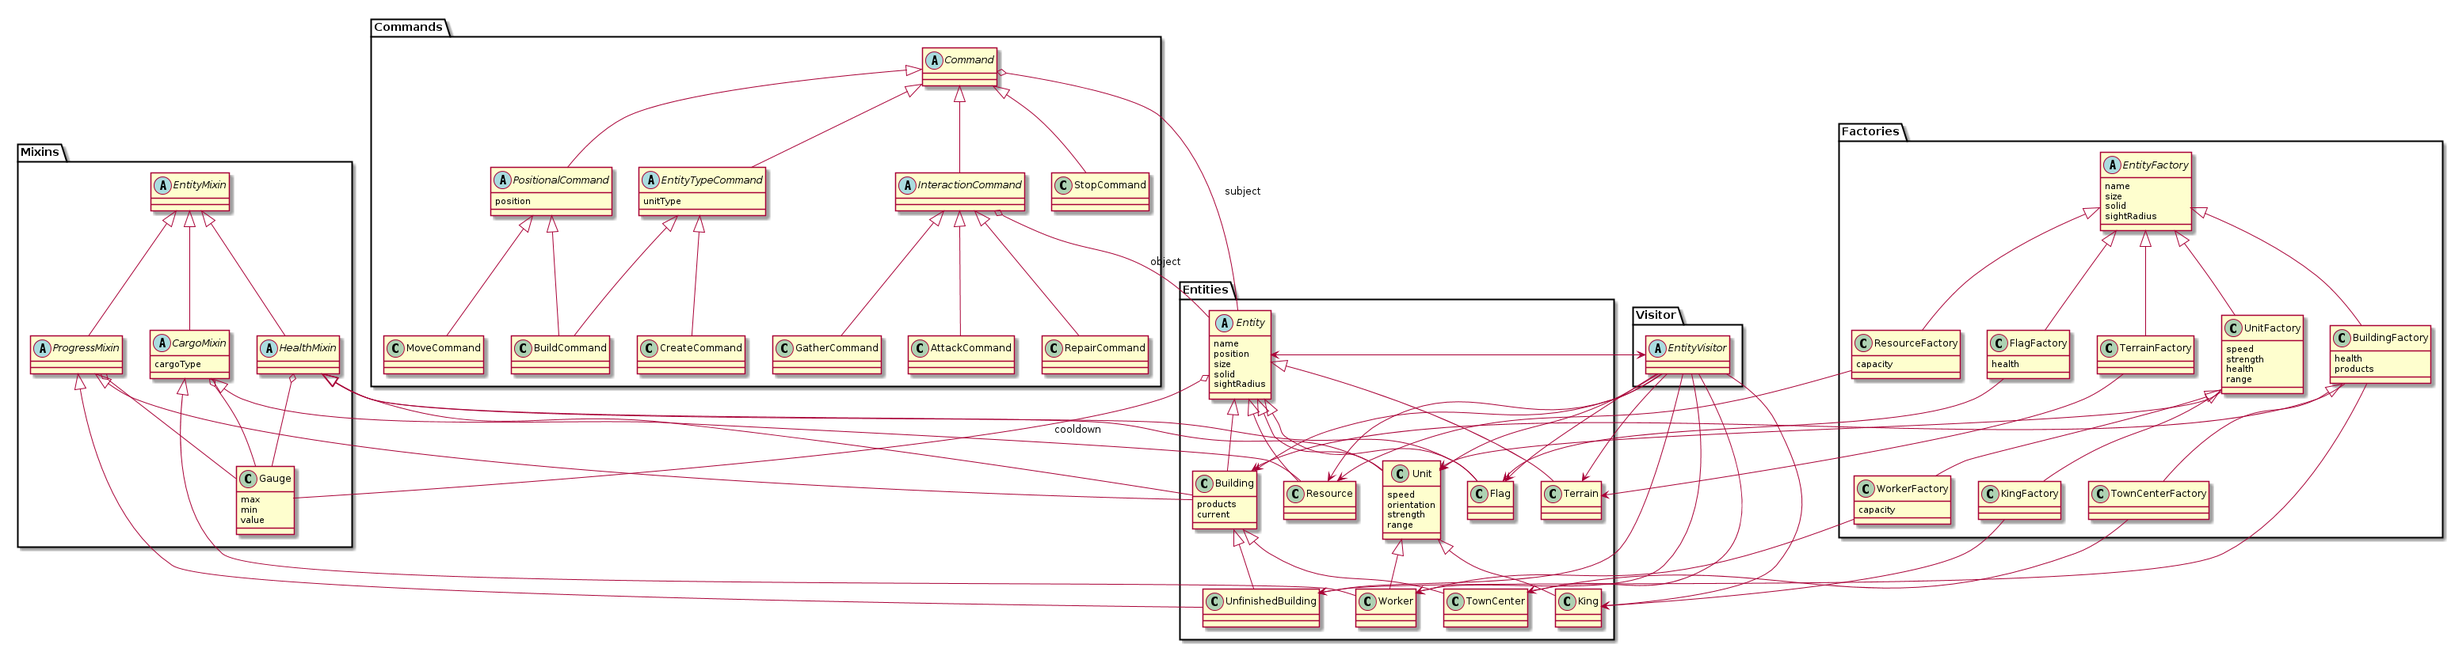
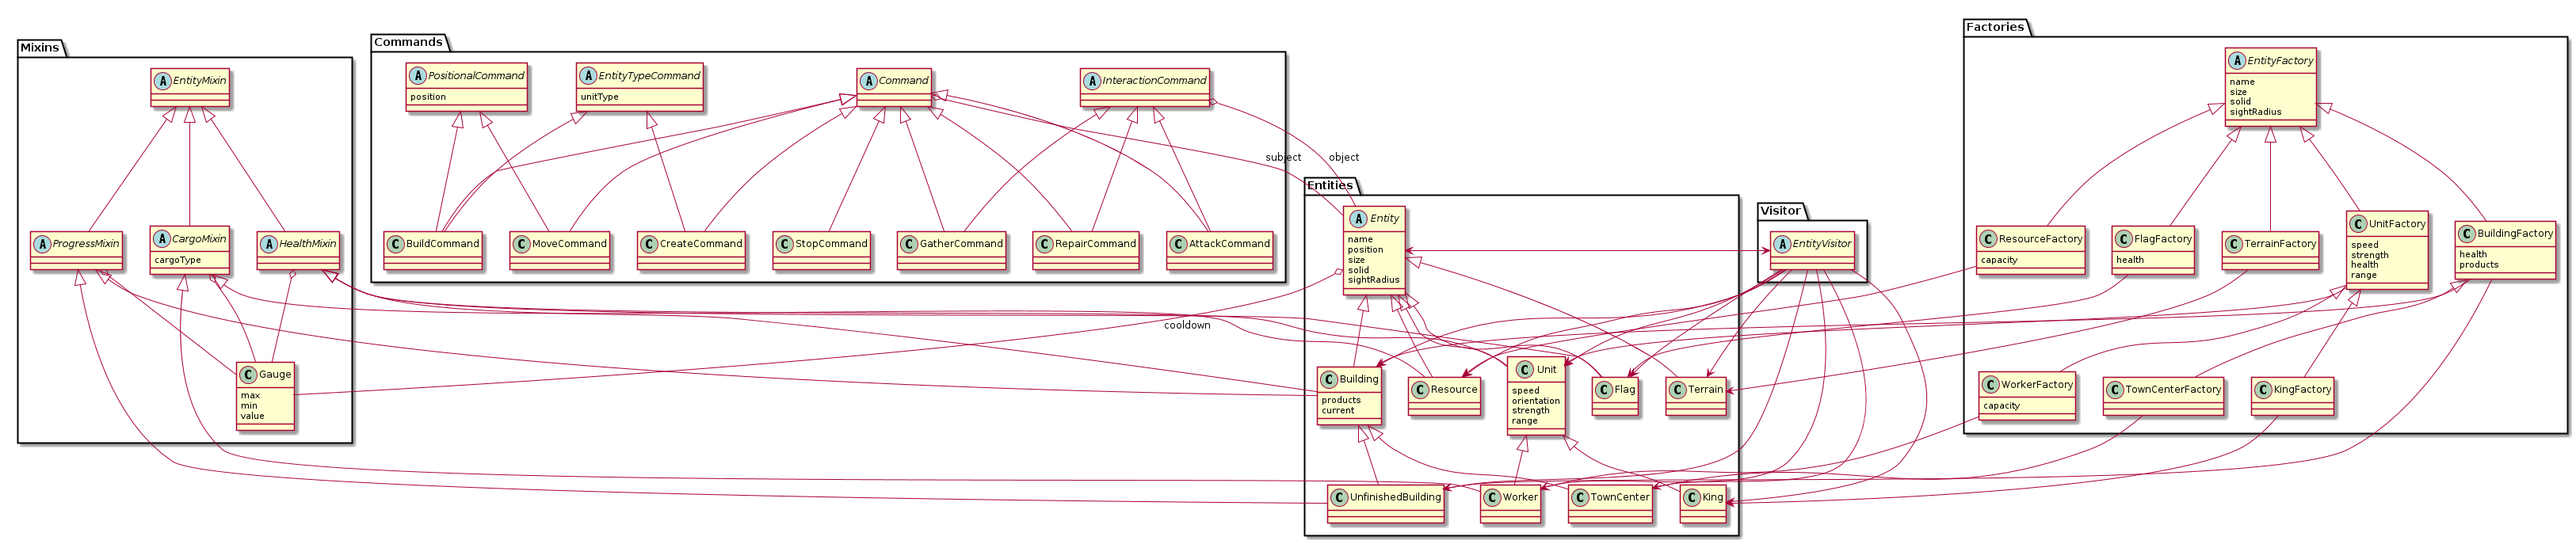
Muchas cosas

Changed region(s): [[0.0, 0.0306, 1.0, 1.0]]

diff --git a/src/main/model/command.h b/src/main/model/command.h
@@ -21,35 +21,35 @@ class StopCommand : public Command {
 		void execute(ABoard& board);
 };
 
-class PositionalCommand : public Command {
+class PositionalCommand {
 	public:
-		PositionalCommand(std::size_t entityId, r2 position);
+		PositionalCommand(r2 position);
 		const r2 position;
 		virtual ~PositionalCommand();
 };
 
-class MoveCommand : public PositionalCommand {
+class MoveCommand : public Command, public PositionalCommand {
 	public:
 		MoveCommand(std::size_t entityId, r2 position);
 	// Visitor methods for dispatching execute(board, command)
 		void execute(ABoard& board);
 };
 
-class InteractionCommand : public Command {
+class InteractionCommand {
 	public:
 		const std::size_t targetId;
-		InteractionCommand(std::size_t entityId, std::size_t targetId);
+		InteractionCommand(std::size_t targetId);
 		virtual ~InteractionCommand();
 };
 
-class RepairCommand : public InteractionCommand {
+class RepairCommand : public Command, public InteractionCommand {
 	public:
 		RepairCommand(std::size_t entityId, std::size_t targetId);
 	// Visitor methods for dispatching execute(board, command)
 		void execute(ABoard& board);
 };
 
-class AttackCommand : public InteractionCommand {
+class AttackCommand : public Command, public InteractionCommand {
 	public:
 		AttackCommand(std::size_t entityId, std::size_t targetId);
 	// TODO: Dispatching react()
@@ -57,28 +57,28 @@ class AttackCommand : public InteractionCommand {
 		void execute(ABoard& board);
 };
 
-class GatherCommand : public InteractionCommand {
+class GatherCommand : public Command, public InteractionCommand {
 	public:
 		GatherCommand(std::size_t entityId, std::size_t targetId);
 	// Visitor methods for dispatching execute(board, command)
 		void execute(ABoard& board);
 };
 
-class EntityTypeCommand : public Command {
+class EntityTypeCommand {
 	public:
 		const std::string entityType;
-		EntityTypeCommand(std::size_t entityId, std::string entityType);
+		EntityTypeCommand(std::string entityType);
 		virtual ~EntityTypeCommand();
 };
 
-class BuildCommand : public PositionalCommand, public EntityTypeCommand {
+class BuildCommand : public Command, public PositionalCommand, public EntityTypeCommand {
 	public:
 		BuildCommand(std::size_t entityId, r2 position, std::string entityType);
 	// Visitor methods for dispatching execute(board, command)
 		void execute(ABoard& board);
 };
 
-class CreateCommand : public EntityTypeCommand {
+class CreateCommand : public Command, public EntityTypeCommand {
 	public:
 		CreateCommand(std::size_t entityId, std::string entityType);
 	// Visitor methods for dispatching execute(board, command)

diff --git a/src/main/model/command.cpp b/src/main/model/command.cpp
@@ -12,8 +12,7 @@ void StopCommand::execute(ABoard& board) {
 }
 
 
-PositionalCommand::PositionalCommand(std::size_t entityId, r2 position) :
-	Command(entityId),
+PositionalCommand::PositionalCommand(r2 position) :
 	position(position)
 {}
 
@@ -21,7 +20,8 @@ PositionalCommand::~PositionalCommand() {}
 
 
 MoveCommand::MoveCommand(size_t entityId, r2 position) :
-	PositionalCommand(entityId, position)
+	Command(entityId),
+	PositionalCommand(position)
 {}
 
 void MoveCommand::execute(ABoard& board) {
@@ -29,8 +29,7 @@ void MoveCommand::execute(ABoard& board) {
 }
 
 
-InteractionCommand::InteractionCommand(size_t entityId, size_t targetId) :
-	Command(entityId),
+InteractionCommand::InteractionCommand(size_t targetId) :
 	targetId(targetId)
 {}
 
@@ -38,34 +37,36 @@ InteractionCommand::~InteractionCommand() {}
 
 
 RepairCommand::RepairCommand(size_t entityId, size_t targetId) :
-	InteractionCommand(entityId, targetId)
+	Command(entityId),
+	InteractionCommand(targetId)
 {}
 
 void RepairCommand::execute(ABoard& board) {
-//	board.execute(*this); // TODO
+	board.execute(*this); // TODO
 }
 
 
 GatherCommand::GatherCommand(size_t entityId, size_t targetId) :
-	InteractionCommand(entityId, targetId)
+	Command(entityId),
+	InteractionCommand(targetId)
 {}
 
 void GatherCommand::execute(ABoard& board) {
-//	board.execute(*this); // TODO
+	board.execute(*this); // TODO
 }
 
 
 AttackCommand::AttackCommand(size_t entityId, size_t targetId) :
-	InteractionCommand(entityId, targetId)
+	Command(entityId),
+	InteractionCommand(targetId)
 {}
 
 void AttackCommand::execute(ABoard& board) {
-//	board.execute(*this); // TODO
+	board.execute(*this); // TODO
 }
 
 
-EntityTypeCommand::EntityTypeCommand(size_t entityId, string entityType) :
-	Command(entityId),
+EntityTypeCommand::EntityTypeCommand(string entityType) :
 	entityType(entityType)
 {}
 
@@ -73,20 +74,22 @@ EntityTypeCommand::~EntityTypeCommand() {}
 
 
 BuildCommand::BuildCommand(size_t entityId, r2 position, string entityType) :
-	PositionalCommand(entityId, position),
-	EntityTypeCommand(entityId, entityType)
+	Command(entityId),
+	PositionalCommand(position),
+	EntityTypeCommand(entityType)
 {}
 
 void BuildCommand::execute(ABoard& board) {
-//	board.execute(*this); // TODO
+	board.execute(*this); // TODO
 }
 
 
 CreateCommand::CreateCommand(size_t entityId, string entityType) :
-	EntityTypeCommand(entityId, entityType)
+	Command(entityId),
+	EntityTypeCommand(entityType)
 {}
 
 void CreateCommand::execute(ABoard& board) {
-//	board.execute(*this); // TODO
+	board.execute(*this); // TODO
 }
 

diff --git a/src/main/model/board.cpp b/src/main/model/board.cpp
@@ -119,10 +119,7 @@ shared_ptr<EntityFactory> ABoard::createEntityFactory(string name, r2 size, doub
 		pFactory = make_shared<WorkerFactory>(name, size, speed, sight_radius, solid, health, hit_force, hit_radius, workerProducts, *this);
 	 } else if(behaviour == "king") {
 		pFactory = make_shared<KingFactory>(name, size, speed, sight_radius, solid, health, *this); 
-	 } else if (behaviour == "building") { // TODO: Unificar con producer_building
-		 std::map<std::string, std::map<std::string, unsigned int>> producerProducts;
-		 pFactory = make_shared<BuildingFactory>(name, size, sight_radius, solid, health, producerProducts, *this); 
-	 } else if(behaviour == "producer_building") {
+	 } else if (behaviour == "building") {
 		 std::map<std::string, std::map<std::string, unsigned int>> producerProducts;
 		 for (auto& p : products) {
 			 std::map<std::string, unsigned int> productCostos;
@@ -333,6 +330,55 @@ void SmartBoard::execute(MoveCommand& command) {
 	if (e) {
 		if (e->owner.getAlive()) {
 			e->execute(command);
+		}
+	}
+}
+
+void SmartBoard::execute(BuildCommand& command) {
+	auto e = findEntity(command.entityId);
+	if (e) {
+		if (e->owner.getAlive()) {
+			//e->execute(command); // TODO
+		}
+	}
+}
+
+
+void SmartBoard::execute(CreateCommand& command) {
+	auto e = findEntity(command.entityId);
+	if (e) {
+		if (e->owner.getAlive()) {
+			//e->execute(command); // TODO
+		}
+	}
+}
+
+
+void SmartBoard::execute(GatherCommand& command) {
+	auto e = findEntity(command.entityId);
+	if (e) {
+		if (e->owner.getAlive()) {
+			//e->execute(command); // TODO
+		}
+	}
+}
+
+
+void SmartBoard::execute(AttackCommand& command) {
+	auto e = findEntity(command.entityId);
+	if (e) {
+		if (e->owner.getAlive()) {
+			//e->execute(command); // TODO
+		}
+	}
+}
+
+
+void SmartBoard::execute(RepairCommand& command) {
+	auto e = findEntity(command.entityId);
+	if (e) {
+		if (e->owner.getAlive()) {
+			//e->execute(command); // TODO
 		}
 	}
 }

diff --git a/src/main/client/remote_board.cpp b/src/main/client/remote_board.cpp
@@ -194,6 +194,55 @@ void RemoteBoard::execute(MoveCommand& command) {
 	flushOut();
 }
 
+void RemoteBoard::execute(BuildCommand& command) {
+	auto e = findEntity(command.entityId);
+	if (e) {
+		if (e->owner.getAlive()) {
+			//e->execute(command); // TODO
+		}
+	}
+}
+
+
+void RemoteBoard::execute(CreateCommand& command) {
+	auto e = findEntity(command.entityId);
+	if (e) {
+		if (e->owner.getAlive()) {
+			//e->execute(command); // TODO
+		}
+	}
+}
+
+
+void RemoteBoard::execute(GatherCommand& command) {
+	auto e = findEntity(command.entityId);
+	if (e) {
+		if (e->owner.getAlive()) {
+			//e->execute(command); // TODO
+		}
+	}
+}
+
+
+void RemoteBoard::execute(AttackCommand& command) {
+	auto e = findEntity(command.entityId);
+	if (e) {
+		if (e->owner.getAlive()) {
+			//e->execute(command); // TODO
+		}
+	}
+}
+
+
+void RemoteBoard::execute(RepairCommand& command) {
+	auto e = findEntity(command.entityId);
+	if (e) {
+		if (e->owner.getAlive()) {
+			//e->execute(command); // TODO
+		}
+	}
+}
+
 bool RemoteBoard::flushOut() {
 	if(!socket->flushOut()) {
 		return false;

diff --git a/src/main/model/board.h b/src/main/model/board.h
@@ -76,6 +76,11 @@ class ABoard : public FrameMixin {
 	// Visited methods for dispatching execute(board, command)
 		virtual void execute(StopCommand& command) = 0;
 		virtual void execute(MoveCommand& command) = 0;
+		virtual void execute(BuildCommand& command) = 0;
+		virtual void execute(CreateCommand& command) = 0;
+		virtual void execute(GatherCommand& command) = 0;
+		virtual void execute(AttackCommand& command) = 0;
+		virtual void execute(RepairCommand& command) = 0;
 };
 
 class SmartBoard : public ABoard {
@@ -90,6 +95,11 @@ class SmartBoard : public ABoard {
 	// Visited methods for dispatching execute(board, command)
 		void execute(StopCommand& command);
 		void execute(MoveCommand& command);
+		void execute(BuildCommand& command);
+		void execute(CreateCommand& command);
+		void execute(GatherCommand& command);
+		void execute(AttackCommand& command);
+		void execute(RepairCommand& command);
 };
 
 //-----------------------------------------------------------------------------

diff --git a/src/main/client/remote_board.h b/src/main/client/remote_board.h
@@ -21,6 +21,11 @@ class RemoteBoard : public ABoard {
 	// Visited methods for dispatching execute(board, command)
 		void execute(StopCommand& command);
 		void execute(MoveCommand& command);
+		void execute(BuildCommand& command);
+		void execute(CreateCommand& command);
+		void execute(GatherCommand& command);
+		void execute(AttackCommand& command);
+		void execute(RepairCommand& command);
 };
 
 #endif // _MODEL_BOARD_H_
